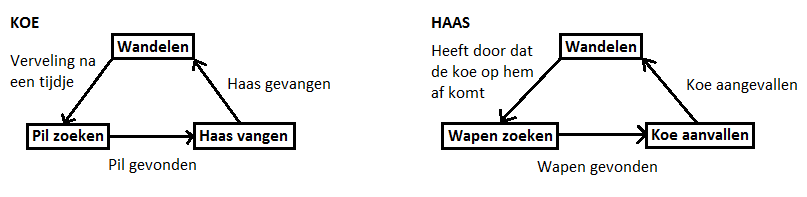
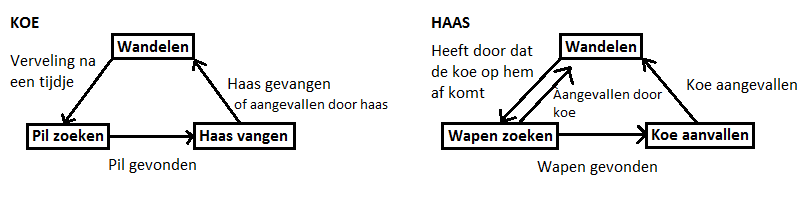
extra state switches

Changed region(s): [[0.6506, 0.335, 0.8364, 0.6091], [0.2788, 0.5178, 0.4957, 0.5787]]

diff --git a/SDLFramework/SDLFramework/AttackRabbitState.cpp b/SDLFramework/SDLFramework/AttackRabbitState.cpp
@@ -15,11 +15,22 @@ AttackRabbitState::~AttackRabbitState()
 
 void AttackRabbitState::Move(Entity* obj, Graph* graph)
 {
-	graph->setShortestPath(obj->getWaypoint(), graph->getRabbit()->getWaypoint());
-	obj->MoveTo(graph->getFirstWaypointShortestPath());
+	if (graph->setShortestPath(obj->getWaypoint(), graph->getRabbit()->getWaypoint()))
+	{
+		obj->MoveTo(graph->getFirstWaypointShortestPath());
+	}
 
 	if (obj->getWaypoint() == graph->getRabbit()->getWaypoint()) {
-		std::cout << "Cow: Caught the rabbit!\n";
+		if (graph->getRabbit()->isAttacking())
+		{
+			std::cout << "Cow: Lost to the rabbit!\n";
+		}
+		else
+		{
+			std::cout << "Cow: Caught the rabbit!\n";
+		}
+		
 		obj->setState(new WanderingStateCow());
+		graph->getRabbit()->resetState();
 	}
 }

diff --git a/SDLFramework/SDLFramework/AttackCowState.cpp b/SDLFramework/SDLFramework/AttackCowState.cpp
@@ -15,12 +15,15 @@ AttackCowState::~AttackCowState()
 
 void AttackCowState::Move(Entity* obj, Graph* graph)
 {
-	graph->setShortestPath(obj->getWaypoint(), graph->getCow()->getWaypoint());
-	obj->MoveTo(graph->getFirstWaypointShortestPath());
+	if (graph->setShortestPath(obj->getWaypoint(), graph->getCow()->getWaypoint()))
+	{
+		obj->MoveTo(graph->getFirstWaypointShortestPath());
+	}
 
 	if (obj->getWaypoint() == graph->getCow()->getWaypoint()) {
 		std::cout << "Rabbit: Attacked the cow!\n";
 		obj->setState(new WanderingStateRabbit());
+		graph->getCow()->resetState();
 	}
 }
 

diff --git a/SDLFramework/SDLFramework/Graph.cpp b/SDLFramework/SDLFramework/Graph.cpp
@@ -78,8 +78,11 @@ void Graph::DrawGraph()
 	});
 }
 
-void Graph::setShortestPath(Waypoint* start, Waypoint* end)
+bool Graph::setShortestPath(Waypoint* start, Waypoint* end)
 {
+	if (start == end)
+		return false;
+
 	std::unordered_map<Waypoint*, float> distances;
 	distances[start] = 0.0f;
 
@@ -138,6 +141,8 @@ void Graph::setShortestPath(Waypoint* start, Waypoint* end)
 		shortestPath_.push(current);
 		current = current->getPreviousWaypoint();
 	}
+
+	return true;
 }
 
 Waypoint* Graph::getRandomWaypoint(std::vector<Waypoint*> occupiedWaypoints)

diff --git a/SDLFramework/SDLFramework/FindWeaponState.cpp b/SDLFramework/SDLFramework/FindWeaponState.cpp
@@ -15,8 +15,10 @@ FindWeaponState::~FindWeaponState()
 
 void FindWeaponState::Move(Entity* obj, Graph* graph)
 {
-	graph->setShortestPath(obj->getWaypoint(), graph->getWeapon()->getWaypoint());
-	obj->MoveTo(graph->getFirstWaypointShortestPath());
+	if (graph->setShortestPath(obj->getWaypoint(), graph->getWeapon()->getWaypoint()))
+	{
+		obj->MoveTo(graph->getFirstWaypointShortestPath());
+	}
 
 	if (obj->getWaypoint() == graph->getWeapon()->getWaypoint()) {
 		graph->moveWeapon();

diff --git a/SDLFramework/SDLFramework/FindPillState.cpp b/SDLFramework/SDLFramework/FindPillState.cpp
@@ -15,8 +15,10 @@ FindPillState::~FindPillState()
 
 void FindPillState::Move(Entity* obj, Graph* graph)
 {
-	graph->setShortestPath(obj->getWaypoint(), graph->getPill()->getWaypoint());
-	obj->MoveTo(graph->getFirstWaypointShortestPath());
+	if (graph->setShortestPath(obj->getWaypoint(), graph->getPill()->getWaypoint()))
+	{
+		obj->MoveTo(graph->getFirstWaypointShortestPath());
+	}
 
 	if (obj->getWaypoint() == graph->getPill()->getWaypoint()) {
 		graph->movePill();

diff --git a/SDLFramework/SDLFramework/Entity.h b/SDLFramework/SDLFramework/Entity.h
@@ -1,5 +1,6 @@
 #pragma once
 #include "IGameObject.h"
+#include "BaseState.h"
 
 class Graph;
 class Waypoint;
@@ -15,6 +16,9 @@ public:
 	Waypoint* getWaypoint() { return waypoint_; }
 
 	virtual void setState(BaseState* state);
+	virtual void resetState() = 0;
+
+	bool isAttacking() { return state_->isAttacking(); }
 protected:
 	Waypoint* waypoint_ = nullptr;
 	BaseState* state_;

diff --git a/SDLFramework/SDLFramework/Rabbit.cpp b/SDLFramework/SDLFramework/Rabbit.cpp
@@ -13,7 +13,7 @@ Rabbit::Rabbit(Waypoint* waypoint) : Entity()
 
 	MoveTo(waypoint);
 
-	state_ = new WanderingStateRabbit();
+	resetState();
 }
 
 Rabbit::~Rabbit()
@@ -34,4 +34,9 @@ void Rabbit::MoveTo(Waypoint* waypoint)
 {
 	Entity::MoveTo(waypoint);
 	mX += mWidth/2;
+}
+
+void Rabbit::resetState()
+{
+	setState(new WanderingStateRabbit());
 }

diff --git a/SDLFramework/SDLFramework/Cow.cpp b/SDLFramework/SDLFramework/Cow.cpp
@@ -14,7 +14,7 @@ Cow::Cow(Waypoint* waypoint) : Entity()
 
 	MoveTo(waypoint);
 	
-	state_ = new WanderingStateCow();
+	resetState();
 }
 
 Cow::~Cow()
@@ -35,4 +35,9 @@ void Cow::MoveTo(Waypoint* waypoint)
 {
 	Entity::MoveTo(waypoint);
 	mX -= mWidth/2;
+}
+
+void Cow::resetState()
+{
+	setState(new WanderingStateCow());
 }

diff --git a/SDLFramework/SDLFramework/WanderingStateRabbit.cpp b/SDLFramework/SDLFramework/WanderingStateRabbit.cpp
@@ -27,7 +27,7 @@ void WanderingStateRabbit::Move(Entity* obj, Graph* graph)
 		obj->MoveTo(edge->getWaypoint2());
 	}
 
-	if (graph->getCow()->getWaypoint() == waypoint) {
+	if (graph->getCow()->isAttacking()) {
 		std::cout << "Rabbit: Looking for weapon!\n";
 		obj->setState(new FindWeaponState());
 	}

diff --git a/SDLFramework/SDLFramework/Graph.h b/SDLFramework/SDLFramework/Graph.h
@@ -17,7 +17,7 @@ public:
 
 	void DrawGraph();
 
-	void setShortestPath(Waypoint* start, Waypoint* end);
+	bool setShortestPath(Waypoint* start, Waypoint* end);
 	
 	Waypoint* getRandomWaypoint(std::vector<Waypoint*> occupiedWaypoints);
 	Waypoint* getFirstWaypointShortestPath();

diff --git a/SDLFramework/SDLFramework/BaseState.h b/SDLFramework/SDLFramework/BaseState.h
@@ -12,6 +12,7 @@ public:
 
 	virtual void Move(Entity* obj, Graph* graph);
 	void setColor(SDL_Texture* texture);
+	virtual bool isAttacking() { return false; }
 protected:
 	Uint8 r_;
 	Uint8 g_;

diff --git a/SDLFramework/SDLFramework/AttackRabbitState.h b/SDLFramework/SDLFramework/AttackRabbitState.h
@@ -8,5 +8,6 @@ public:
 	~AttackRabbitState();
 
 	void Move(Entity* obj, Graph* graph) override;
+	bool isAttacking() override { return true; }
 };
 
